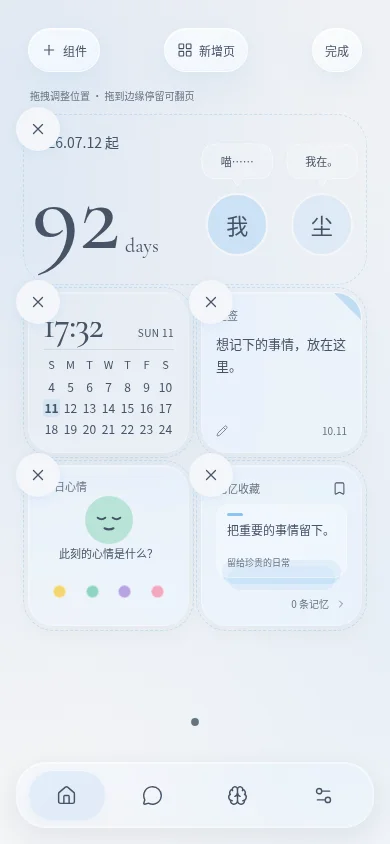
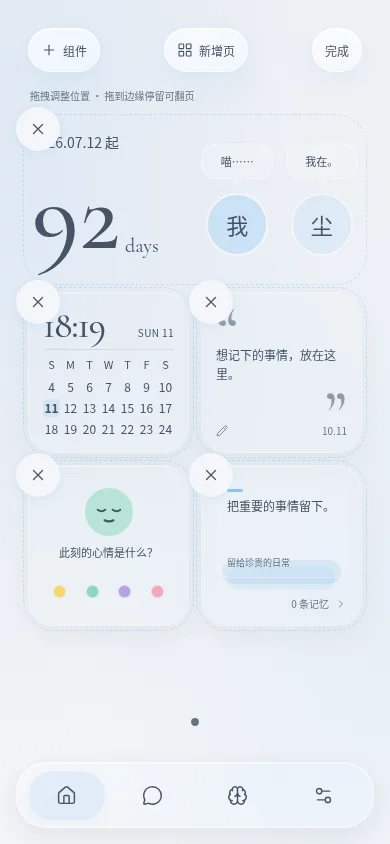
Unify transparent home cards and simplify quote note editing

diff --git a/src/views.js b/src/views.js
@@ -38,9 +38,9 @@ export function home(state,ui={}) {
  const selectedMood=moods.find(m=>m[0]===h.mood)||moods[1],today=new Date();
  const widgets={
  date:`<section class="widget glass date-widget" aria-label="${label('date')}，${new Date().toLocaleDateString('zh-CN')}"><span class="sr-only">${label('date')}</span><div class="calendar-head"><time data-home-clock datetime="${new Date().toISOString()}">${new Date().toLocaleTimeString('en-GB',{hour:'2-digit',minute:'2-digit',hour12:false})}</time><span class="calendar-tag">${h.showWeekday!==false?new Date().toLocaleDateString('en-US',{weekday:'short'}).toUpperCase()+' ':''}${new Date().getDate()}</span></div><div class="calendar-divider"></div><div class="calendar-grid">${h.showWeekday!==false?['S','M','T','W','T','F','S'].map((day,i)=>`<span class="calendar-weekday" aria-label="${['星期日','星期一','星期二','星期三','星期四','星期五','星期六'][i]}">${day}</span>`).join(''):''}${calendarWindow().map(day=>`<span class="calendar-day ${day.today?'active':''} ${day.currentMonth?'':'adjacent-month'}" ${day.today?'aria-current="date"':''} aria-label="${day.date}">${day.day}</span>`).join('')}</div></section>`,
- note:`<button class="widget glass note-widget paper-widget" data-home-action="edit" data-type="note"><span class="widget-label">${label('note')}</span><p class="note-text">${escape(h.note||'想记下的事情，放在这里。')}</p><span class="widget-foot note-footer">${icon('edit')}<span class="sr-only">轻点编辑</span><time datetime="${today.getFullYear()}-${String(today.getMonth()+1).padStart(2,'0')}-${String(today.getDate()).padStart(2,'0')}" aria-label="今天 ${today.toLocaleDateString('zh-CN')}">${String(today.getMonth()+1).padStart(2,'0')}.${String(today.getDate()).padStart(2,'0')}</time></span></button>`,
- mood:`<section class="widget glass mood-widget face-widget"><span class="widget-label">${label('mood')}</span><span class="mood-face" style="--mood-color:${selectedMood[1]}" role="img" aria-label="${h.mood?escape(h.mood):'尚未选择心情'}"><svg viewBox="0 0 64 64" fill="none" stroke="currentColor" stroke-width="2.8" stroke-linecap="round" aria-hidden="true">${selectedMood[2]}</svg></span><span class="mood-caption">${h.mood?`今天，是${escape(h.mood)}的。`:'此刻的心情是什么？'}</span><div class="mood-dots" aria-label="选择今日心情">${moods.map(([m,color])=>`<button data-action="mood" data-mood="${m}" style="--mood-color:${color}" class="${h.mood===m?'selected':''}" aria-pressed="${h.mood===m}" aria-label="${m}"><span aria-hidden="true"></span></button>`).join('')}</div></section>`,
- memory:`<button class="widget glass memory-widget stacked-widget" data-action="memory"><span class="memory-heading widget-label"><span>${label('memory')}</span>${icon('bookmark')}</span><span class="memory-stack"><span class="memory-sheet"><span class="memory-mark" aria-hidden="true"></span><span class="memory-title">${escape(chosen?.title||'把重要的事情留下。')}</span>${chosen&&Number.isFinite(chosen.created)&&Number.isFinite(new Date(chosen.created).getTime())?`<time class="memory-date" datetime="${new Date(chosen.created).toISOString()}">${new Date(chosen.created).toLocaleDateString('zh-CN',{year:'numeric',month:'2-digit',day:'2-digit'}).replaceAll('/','.')}</time>`:`<span class="memory-date">${chosen?'已保存的记忆':'留给珍贵的日常'}</span>`}</span></span><span class="widget-foot memory-footer">${memories.length} 条记忆 ${icon('chevron')}</span></button>`
+ note:`<button class="widget glass note-widget quote-widget" data-home-action="edit" data-type="note"><span class="sr-only">${label('note')}</span><span class="note-quote"><span class="quote-open" aria-hidden="true">“</span><span class="note-text">${escape(h.note||'想记下的事情，放在这里。')}</span><span class="quote-close" aria-hidden="true">”</span></span><span class="widget-foot note-footer">${icon('edit')}<span class="sr-only">轻点编辑</span><time datetime="${today.getFullYear()}-${String(today.getMonth()+1).padStart(2,'0')}-${String(today.getDate()).padStart(2,'0')}" aria-label="今天 ${today.toLocaleDateString('zh-CN')}">${String(today.getMonth()+1).padStart(2,'0')}.${String(today.getDate()).padStart(2,'0')}</time></span></button>`,
+ mood:`<section class="widget glass mood-widget face-widget"><span class="sr-only">${label('mood')}</span><span class="mood-face" style="--mood-color:${selectedMood[1]}" role="img" aria-label="${h.mood?escape(h.mood):'尚未选择心情'}"><svg viewBox="0 0 64 64" fill="none" stroke="currentColor" stroke-width="2.8" stroke-linecap="round" aria-hidden="true">${selectedMood[2]}</svg></span><span class="mood-caption">${h.mood?`今天，是${escape(h.mood)}的。`:'此刻的心情是什么？'}</span><div class="mood-dots" aria-label="选择今日心情">${moods.map(([m,color])=>`<button data-action="mood" data-mood="${m}" style="--mood-color:${color}" class="${h.mood===m?'selected':''}" aria-pressed="${h.mood===m}" aria-label="${m}"><span aria-hidden="true"></span></button>`).join('')}</div></section>`,
+ memory:`<button class="widget glass memory-widget stacked-widget" data-action="memory"><span class="sr-only">${label('memory')}</span><span class="memory-stack"><span class="memory-sheet"><span class="memory-mark" aria-hidden="true"></span><span class="memory-title">${escape(chosen?.title||'把重要的事情留下。')}</span>${chosen&&Number.isFinite(chosen.created)&&Number.isFinite(new Date(chosen.created).getTime())?`<time class="memory-date" datetime="${new Date(chosen.created).toISOString()}">${new Date(chosen.created).toLocaleDateString('zh-CN',{year:'numeric',month:'2-digit',day:'2-digit'}).replaceAll('/','.')}</time>`:`<span class="memory-date">${chosen?'已保存的记忆':'留给珍贵的日常'}</span>`}</span></span><span class="widget-foot memory-footer">${memories.length} 条记忆 ${icon('chevron')}</span></button>`
  };
  const wrap=(type,content,slot)=>`<div class="home-widget ${type==='anniversary'?'hero-widget':''}" data-home-widget="${type}" style="grid-column:${slot.col} / span ${slot.width};grid-row:${slot.row} / span ${slot.height}" tabindex="0" aria-label="${type==='anniversary'?'纪念日':label(type)}，${editing?'拖拽移动，Alt 加方向键调整位置':'长按或右键打开菜单'}"><div class="widget-surface" ${editing?'inert':''}>${content}</div>${editing?`<div class="widget-drag-surface" aria-hidden="true"></div><button class="widget-remove" data-home-action="hide" data-type="${type}" aria-label="移除${type==='anniversary'?'纪念日':label(type)}">${icon('close')}</button>`:''}</div>`;
  const count=days>0?days:1-(days||0);

diff --git a/src/style.css b/src/style.css
@@ -235,11 +235,9 @@ h1,.welcome-en,.usage-values strong,.anniversary-horizontal .day-count>span{font
 .field input[type=range]::-moz-range-track{height:5px;border-radius:8px;background:rgb(var(--tint) / .18)}
 .field input[type=range]::-moz-range-progress{height:5px;border-radius:8px;background:var(--accent)}
 .field input[type=range]::-moz-range-thumb{width:22px;height:22px;border-radius:50%;border:1px solid rgb(255 255 255 / .65);background:var(--solid);box-shadow:0 2px 7px rgb(0 0 0 / .12)}
-/* Paper, expression and stacked-memory cards share the desktop's square cells. */
-.home-desktop .paper-widget,.home-desktop .face-widget,.home-desktop .stacked-widget{padding:14px;position:relative;background:rgb(var(--glass-tint) / .2);border:1px solid rgb(255 255 255 / .3);box-shadow:inset 0 1px 0 rgb(255 255 255 / .22),0 8px 24px rgb(0 0 0 / .035)}
-.paper-widget:after{content:'';position:absolute;right:0;top:0;width:27px;height:27px;background:color-mix(in srgb,var(--accent) 50%,var(--solid));clip-path:polygon(0 0,100% 100%,100% 0);pointer-events:none}
-.paper-widget .widget-label{padding-right:16px}
-.home-desktop .paper-widget .note-text{font-size:13px;line-height:1.7;margin-top:10px;-webkit-line-clamp:3}
+/* Quote, expression and memory cards share the calendar glass and square cells. */
+.home-desktop .quote-widget,.home-desktop .face-widget,.home-desktop .stacked-widget{padding:14px;position:relative;background:rgb(var(--glass-tint) / .07);border:1px solid rgb(255 255 255 / .25);box-shadow:0 12px 30px rgb(0 0 0 / .045),inset 0 1px 0 rgb(255 255 255 / .3);backdrop-filter:blur(16px);-webkit-backdrop-filter:blur(16px)}
+.home-desktop .quote-widget .note-text{font-size:13px;line-height:1.7;margin-top:10px;-webkit-line-clamp:3}
 .note-footer{justify-content:space-between}
 .note-footer time{font-size:10px;font-variant-numeric:tabular-nums}
 .home-desktop .face-widget{align-items:center;gap:2px;padding:12px 14px}
@@ -261,16 +259,16 @@ h1,.welcome-en,.usage-values strong,.anniversary-horizontal .day-count>span{font
 .memory-title{display:-webkit-box;-webkit-box-orient:vertical;-webkit-line-clamp:2;overflow:hidden;font-size:12px;line-height:1.5;margin-top:5px;color:var(--ink)}
 .memory-date{margin-top:auto;padding-top:4px;font-size:9px;line-height:1.3;color:var(--muted);font-variant-numeric:tabular-nums}
 .home-desktop .memory-footer{justify-content:flex-end;padding-top:6px;font-size:10px}
-:root[data-theme=dark] .paper-widget,:root[data-theme=dark] .face-widget,:root[data-theme=dark] .stacked-widget{background:rgb(27 29 35 / .3);border-color:rgb(255 255 255 / .09);box-shadow:inset 0 1px 0 rgb(255 255 255 / .035),0 8px 24px rgb(0 0 0 / .08)}
+:root[data-theme=dark] .quote-widget,:root[data-theme=dark] .face-widget,:root[data-theme=dark] .stacked-widget{background:rgb(27 29 35 / .22);border-color:rgb(255 255 255 / .1);box-shadow:inset 0 1px 0 rgb(255 255 255 / .045),0 6px 22px rgb(0 0 0 / .14)}
 :root[data-theme=dark] .mood-face{background:color-mix(in srgb,var(--mood-color) 24%,var(--solid))}
 :root[data-theme=dark] .memory-sheet{background:rgb(37 40 47 / .48);border-color:rgb(255 255 255 / .08)}
 @media(max-width:380px){
- .home-desktop .paper-widget,.home-desktop .stacked-widget{padding:10px}
+ .home-desktop .quote-widget,.home-desktop .stacked-widget{padding:10px}
  .home-desktop .face-widget{padding:10px;gap:1px}
  .mood-face{width:36px;height:36px}
  .mood-caption{font-size:10px}
  .mood-dots button>span{width:11px;height:11px}
- .home-desktop .paper-widget .note-text{font-size:11px;margin-top:7px;line-height:1.65}
+ .home-desktop .quote-widget .note-text{font-size:11px;margin-top:7px;line-height:1.65}
  .memory-sheet{padding:6px 7px}
  .memory-title{font-size:11px;line-height:1.35;margin-top:4px}
  .memory-date{font-size:8px;padding-top:2px}
@@ -286,3 +284,25 @@ h1,.welcome-en,.usage-values strong,.anniversary-horizontal .day-count>span{font
 :root[data-theme=dark] #sidebar-dialog{background:linear-gradient(155deg,rgb(34 37 44 / .38),rgb(22 24 30 / .18) 60%,rgb(29 32 39 / .3));border-color:rgb(255 255 255 / .1);box-shadow:inset -1px 0 1px rgb(255 255 255 / .07),12px 0 45px rgb(0 0 0 / .2)}
 :root[data-theme=dark] #sidebar-dialog::backdrop{background:rgb(0 0 0 / .3)}
 .mood-caption{max-width:100%;overflow:hidden;text-overflow:ellipsis}
+
+/* Unlabelled glass faces: the note is framed by two oversized quotation marks. */
+.note-quote{position:relative;display:flex;align-items:center;flex:1;min-height:0;padding:28px 0 24px;width:100%}
+.quote-open,.quote-close{position:absolute;font-family:var(--font-en);font-size:64px;font-weight:500;line-height:1;color:var(--theme-text);opacity:.55;pointer-events:none}
+.quote-open{top:-10px;left:0}
+.quote-close{bottom:-28px;right:0}
+.home-desktop .quote-widget .note-text{display:-webkit-box;-webkit-box-orient:vertical;-webkit-line-clamp:3;overflow:hidden;margin:0;font-size:12px;line-height:1.6;white-space:pre-wrap;overflow-wrap:anywhere}
+.home-desktop .quote-widget .note-footer{padding-top:6px}
+.home-desktop .face-widget{justify-content:center;padding-top:16px}
+.face-widget .mood-face{margin-top:auto}
+.face-widget .mood-caption{margin-top:7px}
+.memory-stack{margin-top:0}
+.memory-sheet{background:rgb(var(--glass-tint) / .08);border-color:rgb(255 255 255 / .2)}
+:root[data-theme=dark] .memory-sheet{background:rgb(37 40 47 / .16);border-color:rgb(255 255 255 / .08)}
+@media(max-width:380px){
+ .home-desktop .face-widget{padding-top:12px}
+ .face-widget .mood-caption{margin-top:5px}
+ .note-quote{padding:24px 0 20px}
+ .quote-open,.quote-close{font-size:54px}
+ .quote-close{bottom:-24px}
+ .home-desktop .quote-widget .note-text{font-size:11px;line-height:1.5;-webkit-line-clamp:2}
+}

diff --git a/src/home-editor.js b/src/home-editor.js
@@ -38,7 +38,7 @@ export function createHomeEditor({app,getState,setState,persist,render,notify,co
   else if(kind==='anniversary'){
    content=field('开始日期','since',h.since,'','date')+`<div class="home-avatar-editor">${[['user','userAvatar','你的头像'],['ai','aiAvatar','AI 头像']].map(([who,key,label])=>`<div><div data-avatar-preview="${key}">${avatar(draft,who)}</div><label class="upload-label">${label}<input type="file" data-home-avatar="${key}" accept="image/jpeg,image/png,image/webp"></label><button type="button" data-reset-avatar="${key}" class="text-button">恢复默认</button></div>`).join('')}</div>`+field('你的名字','userName',h.userName)+field('AI 名字','aiName',draft.persona.name)+field('你的气泡','userBubble',h.userBubble||'喵……')+field('AI 的气泡','aiBubble',h.aiBubble||'我在。')+`<p class="hint">开始当天为第 1 天。头像与名字也会同步用于对话。</p>`;
   }else{
-   content=field('组件标题','widgetTitle',h.widgetTitles?.[kind]||widgetLabels[kind]);
+   content=kind==='note'?'':field('组件标题','widgetTitle',h.widgetTitles?.[kind]||widgetLabels[kind]);
    if(kind==='note')content+=`<label class="field"><span>便签内容</span><textarea name="note" maxlength="500" rows="5">${escape(h.note)}</textarea></label>`;
    if(kind==='date')content+=`<label class="home-check"><input name="showWeekday" type="checkbox" ${h.showWeekday!==false?'checked':''}>显示星期</label>`;
    if(kind==='mood')content+=`<label class="field"><span>此刻的心情</span><select name="mood">${['','开心','平静','疲惫','想念'].map(m=>`<option value="${m}" ${h.mood===m?'selected':''}>${m||'还没想好'}</option>`).join('')}</select></label>`;
@@ -119,7 +119,7 @@ export function createHomeEditor({app,getState,setState,persist,render,notify,co
  });
  dialog.addEventListener('submit',e=>{e.preventDefault();const data=Object.fromEntries(new FormData(e.target));if(type==='anniversary'&&daysTogether(data.since)===null){notify('请选择有效的日期。');return;}
   if(commit(s=>{if(type==='anniversary'){Object.assign(s.home,{since:data.since,userName:data.userName.trim().slice(0,40)||'我',userBubble:data.userBubble.trim().slice(0,40),aiBubble:data.aiBubble.trim().slice(0,40)});s.persona.name=data.aiName.trim().slice(0,40)||s.persona.name;s.appearance.userAvatar=draft.appearance.userAvatar;s.appearance.aiAvatar=draft.appearance.aiAvatar;}
-   else{s.home.widgetTitles={...s.home.widgetTitles,[type]:data.widgetTitle.trim().slice(0,20)};if(type==='note')s.home.note=data.note.slice(0,500);if(type==='date')s.home.showWeekday=data.showWeekday==='on';if(type==='mood')s.home.mood=data.mood;if(type==='memory')s.home.memoryId=data.memoryId;}
+   else{if(typeof data.widgetTitle==='string')s.home.widgetTitles={...s.home.widgetTitles,[type]:data.widgetTitle.trim().slice(0,20)};if(type==='note')s.home.note=data.note.slice(0,500);if(type==='date')s.home.showWeekday=data.showWeekday==='on';if(type==='mood')s.home.mood=data.mood;if(type==='memory')s.home.memoryId=data.memoryId;}
   })){dialog.close();refresh();notify('小组件已保存。');}
  });
  dialog.addEventListener('close',()=>{draft=null;app.querySelector(`[data-home-widget="${type}"]`)?.focus({preventScroll:true});});

diff --git a/docs/CODEX_HANDOFF.md b/docs/CODEX_HANDOFF.md
@@ -35,7 +35,7 @@
 - 纪念日默认开始日期为 2026-07-12；旧数据的 2026-10-07 一次性迁移为该日期，其他已有日期保留，迁移后仍可自由编辑。日期上移至数字上方，保留与数字之间的留白。
 - 日历遵循用户提供的玻璃卡片示例：实时 24 小时时间、星期/日期标签、分隔线、前一周/本周/后一周共 21 天，突出今天，字号在原示例基础上略微放大；跨日刷新，跨月/跨年正确排列，保留星期显示设置与组件名。
 - 主页每页保留 4 列 × 6 行；每格高度由容器宽度计算，宽高相等，不再按屏幕高度拉伸。纪念日占 4×2，今天、便签、心情、记忆收藏各占 2×2 且严格为 1:1。多余屏幕高度留作桌面留白，短屏编辑模式允许纵向滚动，不压扁组件。按组件顺序寻找空位排列，不重写原分页数据。
-- 便签采用主题色折角纸页，保留点击编辑入口，底部日期表示今天（不表示最后修改时间）；心情采用大号 SVG 表情和四色选择点，沿用开心/平静/疲惫/想念四种本机状态；记忆采用叠放卡片，展示用户选中/最近的有效记忆、真实创建日期和有效记忆数量，没有记忆时显示空状态。小字仍使用系统无衬线字体，不照搬示例的宋体或示例内容。
+- 便签、心情、记忆外层统一使用接近日历的高透玻璃，不显示左上方名称（无障碍名称保留）。便签取消蓝色折角，改为前后大双引号；点击编辑只显示便签内容，不显示组件标题输入，旧标题数据保留；底部日期表示今天（不表示最后修改时间）；心情采用大号 SVG 表情和四色选择点，沿用开心/平静/疲惫/想念四种本机状态；记忆采用叠放卡片，展示用户选中/最近的有效记忆、真实创建日期和有效记忆数量，没有记忆时显示空状态。小字仍使用系统无衬线字体，不照搬示例的宋体或示例内容。
 - 长按或右键主页组件，在组件附近弹出「编辑内容、编辑主页、移除」菜单；支持键盘入口、方向键、Escape 与点击外部关闭。编辑内容只打开当前组件的编辑抽屉。
 - 「编辑主页」进入全局布局模式，直接拖拽组件排序（含纪念日），使用角落的 × 移除，不再提供选中模式或箭头排序，也不打开内容编辑。底部「编辑主页」入口已按用户要求删除，长按组件菜单仍可进入编辑。
 - 主页支持新增分页（最多 12 页）、左右滑动和圆点切换；左右箭头已删除，分页圆点保留，底部留白收紧。编辑模式拖到左右边缘或分页控件停留约 650ms 可翻页并移动组件；拖拽中显示浮起的组件与原位占位，释放才保存，取消不保存。

diff --git a/docs/verification.md b/docs/verification.md
@@ -86,3 +86,10 @@
 - Chromium 320×640 / 390×844：长便签、长记忆标题与新增卡片元素在组件内；四种心情选择/保存、便签编辑/刷新、记忆入口/真实日期/数量通过。文本转义仍生效。
 - 输入框与侧栏的实际背景为低透明度渐变玻璃；输入草稿在侧栏打开/关闭后保留、消息保存正常、侧栏导航与 Escape 关闭通过。白天与夜间预览均已更新。
 - 实际触摸长按、编辑主页、新增页、跨页拖拽、滑动翻页通过，无 JavaScript 运行错误；20 项测试及所有模块语法检查通过。
+
+## 无标题玻璃组件与引号便签
+
+- 三个组件外层材质与日历一致；移除蓝色折角和左上方名称，保留无障碍名称。便签改为前后大双引号。
+- 320 / 390px Chromium 验证：三个组件无可见标题、便签无折角伪元素、玻璃背景颜色与日历相等；长便签在双引号中截断显示，完整内容保留在编辑器中。
+- 便签编辑只显示内容字段，保存后旧 widgetTitles.note 保留；心情选择、记忆入口、刷新恢复及昼夜预览通过。
+- 全部 20 项测试及模块语法检查通过。用户数据未迁移或清空。
